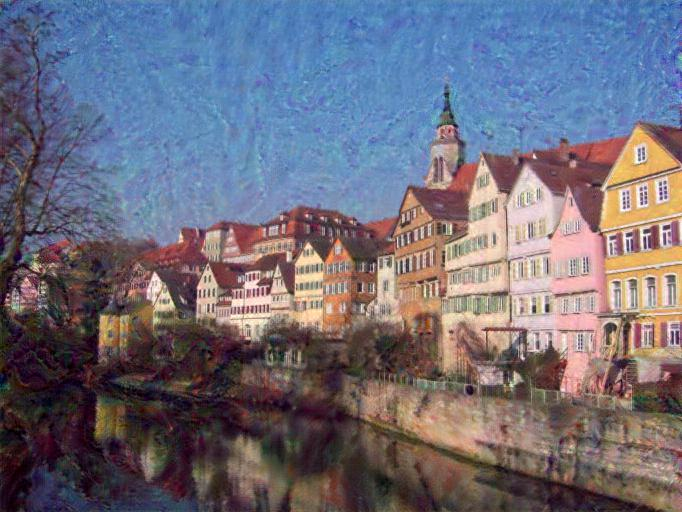
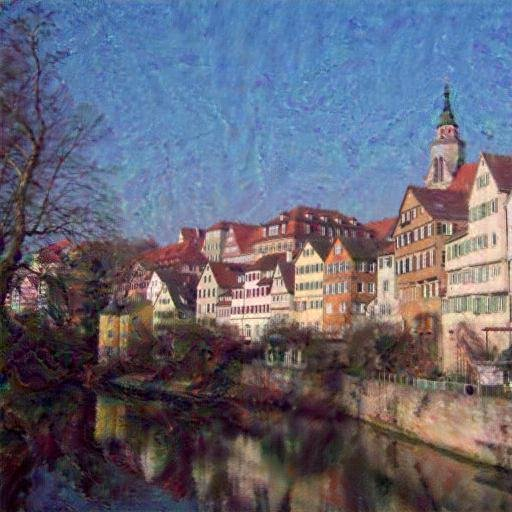
i hate css

diff --git a/_posts/2019-06-25-robust-neural-style-transfer.md b/_posts/2019-06-25-robust-neural-style-transfer.md
@@ -36,10 +36,16 @@ Testing this hypothesis is very straightforward: Use an adversarially robust cla
 <script src="https://cdn.knightlab.com/libs/juxtapose/latest/js/juxtapose.min.js"></script>
 <link rel="stylesheet" href="https://cdn.knightlab.com/libs/juxtapose/latest/css/juxtapose.css">
 <button id='switch-style-transfer'>Compare VGG \<\> Robust ResNet</button>
-<div id="style-transfer-slider"></div>
+<div id="style-transfer-slider" class="align-center"></div>
+<style>
+div.juxtapose {
+  max-height: 512px;
+  max-width: 512px;
+}
+</style>  
 <script>
-var currentContent = 'tubingen';
-var currentStyle = 'woman';
+var currentContent = 'ben';
+var currentStyle = 'scream';
 var currentLeft = 'nonrobust';
 function refreshSlider(content, style, left) {
   const imgPath1 = '/images/rnst/style-transfer/' + currentContent + '_' + currentStyle + '_' + left + '.jpg';
